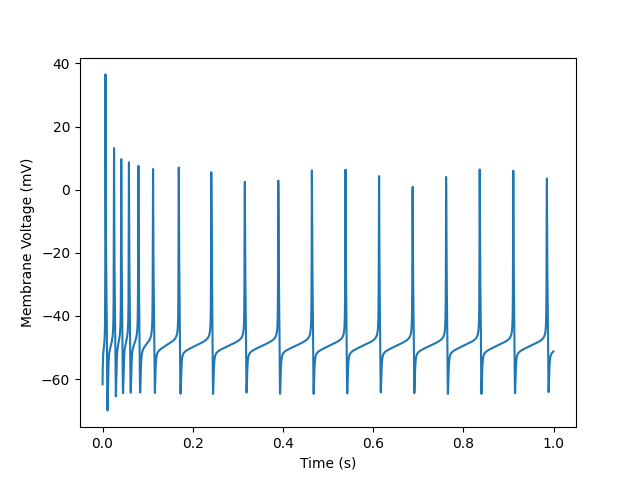
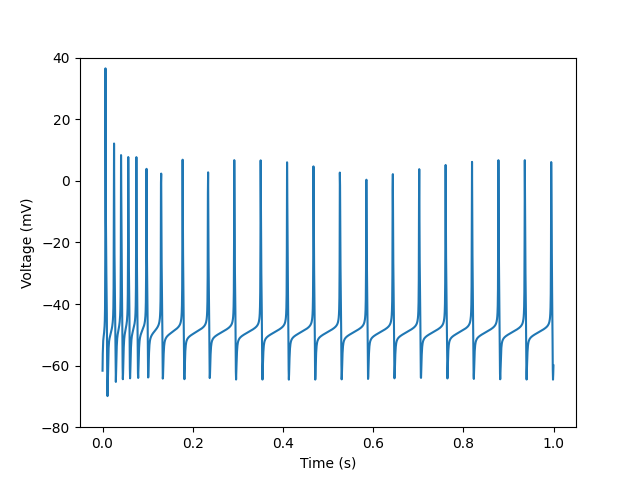
Add files via upload

diff --git a/PN_model.py b/PN_model.py
@@ -1,11 +1,13 @@
-
+#Version 0.1
+#Updated 12/08/2020
+############
 import matplotlib.pyplot as plt
 plt.ion() #interactive plotting
 import numpy as np
 
 from scipy.integrate import odeint
 
-import math 
+import math
 
 
 #Parameters
@@ -24,8 +26,8 @@ gL       = 0.05     # maximal conductance of leak channel (micro-siemen)
 ENa      = 55       # reversal potential of Na+ (milli-volt)
 EK       = -94      # reversal potential of K+ (milli-volt)
 ESynE    = -10       # reversal potential of (excitatory Synapse) (milli-volt)
-ESynI    =-94       # reversal potential of (inhibitory Synapse) (milli-volt)
-EL       = -43      # reversal potential of leak channel (milli-volt - (-41.31 for 1Hz  -52.57 for 2Hz  -52.56 for 3Hz))   */ 
+ESynI    = -94       # reversal potential of (inhibitory Synapse) (milli-volt)
+EL       = -43      # reversal potential of leak channel (milli-volt - (-41.31 for 1Hz  -52.57 for 2Hz  -52.56 for 3Hz))   */
 
 v        = 2.5e-4   # Volume of the shell for Ca channel (nano-liter)
 Btot     = 0.03     # Total concentration of Calcium (free + bound) milli-molar
@@ -57,12 +59,12 @@ K_pde    = 3e-3     # Kinetic parameter for cAMP modulation (milli-molar)
 
 InE  = 0.012      # Excitatory Synapse conductnace
 InI  = 0.000      # Inhibitory Synapse conductance
-Iinj = 0.012      # Injected input current 
+Iinj = 0.012      # Injected input current
 
 HT5  = 0.00       # Seretonin concentration
 
 
-        
+
 # Steady State with IR and EL=-43 and gL=0.05. */
 ###############################################
 
@@ -77,9 +79,9 @@ y0[6]  = 2.170679363371657e-01  # activation variable of transient potassium K_A
 y0[7]  = 6.157878220370643e-02  # inactivation variable of transient potassium K_A2
 y0[8]  = 1.113929524548006e-01  # activation variable of Calcium dependent potassium K_AHP
 y0[9]  = 1.027134762959492e-02  # activation variable of L-type calcium
-y0[10] = 0.0                       # m1-activation variable of N-type calcium 
-y0[11] = 0.0                     # h1-inactivation variable of N1-type calcium 
-y0[12] = 0.0                       # h2-inactivation variable of N2-type calcium 
+y0[10] = 0.0                       # m1-activation variable of N-type calcium
+y0[11] = 0.0                     # h1-inactivation variable of N1-type calcium
+y0[12] = 0.0                       # h2-inactivation variable of N2-type calcium
 y0[13] = 5.007132151536936e-05  # Calcium concentration
 y0[14] = 0.0                     # pre synaptic excitation
 y0[15] = 0.0                      # pre synaptic inhibition
@@ -98,12 +100,12 @@ def ECa(x):
 #%%
 
 
-    
+
 def PN_model(y,t):
-    
+
 #variables
 ##########
-    
+
     V     = y[0] # Membrane volatge from interg over Vm
     mNa   = y[1] # activation variable of Na+
     hNa   = y[2] # inactivation variable of Na+
@@ -114,17 +116,17 @@ def PN_model(y,t):
     hA2   = y[7] # inactivation variable of transient potassium K_A2
     mAHP  = y[8] # activation variable of Calcium dependent potassium K_AHP
     mCaL  = y[9] # activation variable of L-type calcium
-    mCaN  = y[10] # m1-activation variable of N-type calcium 
-    hCaN1 = y[11] # h1-inactivation variable of N1-type calcium 
-    hCaN2 = y[12] # h2-inactivation variable of N2-type calcium  
+    mCaN  = y[10] # m1-activation variable of N-type calcium
+    hCaN1 = y[11] # h1-inactivation variable of N1-type calcium
+    hCaN2 = y[12] # h2-inactivation variable of N2-type calcium
     Cai   = y[13] # Calcium concentration
     gSynE = y[14] # pre synaptic excitation
     gSynI = y[15] # pre synaptic inhibition
     cAMP  = y[16] # cyclic AMP modulation
-            
-       
-            
-       
+
+
+
+
 #Current from channels
 ######################
 
@@ -132,15 +134,15 @@ def PN_model(y,t):
     IDR   = -gDR_bar*mDR**4*(EK-V)      #Potassium delayed rectifier
     IA    = -gA_bar*( 0.6*mA1**4*hA1 + 0.4*mA2**4*hA2 )*(EK-V) #Transient potassium
     IAHP  = -gAHP_bar*mAHP*mAHP*(EK-V) #Calcium dependent potassium
-    FR    = 1   #1+KR/( 1+ math.exp((KRcAMP-cAMP)/DRcAMP) )  #cAMP regulation
+    FR    = 1+KR/( 1+ math.exp((KRcAMP-cAMP)/DRcAMP) )  #cAMP regulation
     IR    = gR_bar*FR*(V-EK+5.66)/( 1+ math.exp((V-EK-15.3)*Z*F/RT) ) # Inwardly rectifying potassium, KAR
     ICa   = gCaL_bar*mCaL**2*(ECa(Cai)-V) #Calcium-L type - TO EDIT
-     
-  
+
+
     ISynE = gSynE*(ESynE-V) # Excitatory Synapse
     ISynI = gSynI*(ESynI-V) # Inhibitory Synapse
     IL    = gL*(EL-V)       # Leak channel current
-        
+
 
 
 #Steady state values
@@ -148,136 +150,136 @@ def PN_model(y,t):
 
     # Fast Sodium, Na_fast */
 
-    miNa = ( (V+38)/(1- math.exp(-(V+38)/5)) ) 
-    tmNa = 1/( 0.091*miNa + 0.062*miNa*math.exp(-(V+38)/5) ) 
-    miNa = 0.091*miNa*tmNa 
-    
-    hiNa = 0.016* math.exp(-(V+55)/15) 
-    thNa = 1/( hiNa+2.07/(1+ math.exp(-(V-17)/21)) ) 
-    hiNa = hiNa*thNa 
-    
-    gNa  = gNa_bar*mNa**3*hNa 
-    
-    mNa_dot = (miNa-mNa)/tmNa 
-    hNa_dot = (hiNa-hNa)/thNa 
+    miNa = ( (V+38)/(1- math.exp(-(V+38)/5)) )
+    tmNa = 1/( 0.091*miNa + 0.062*miNa*math.exp(-(V+38)/5) )
+    miNa = 0.091*miNa*tmNa
+
+    hiNa = 0.016* math.exp(-(V+55)/15)
+    thNa = 1/( hiNa+2.07/(1+ math.exp(-(V-17)/21)) )
+    hiNa = hiNa*thNa
+
+    gNa  = gNa_bar*mNa**3*hNa
+
+    mNa_dot = (miNa-mNa)/tmNa
+    hNa_dot = (hiNa-hNa)/thNa
 
 
     # Potassium-delayed rectifier, K_DR */
 
-    miDR = ( 0.01*(V+45)/(1- math.exp(-(V+45)/5)) ) 
-    tmDR = 1/( miDR+0.17* math.exp(-(V+50)/40) ) 
-    miDR = miDR*tmDR 
-    
-    gDR  = gDR_bar*mDR**4 
-    mDR_dot = (miDR-mDR)/tmDR 
+    miDR = ( 0.01*(V+45)/(1- math.exp(-(V+45)/5)) )
+    tmDR = 1/( miDR+0.17* math.exp(-(V+50)/40) )
+    miDR = miDR*tmDR
+
+    gDR  = gDR_bar*mDR**4
+    mDR_dot = (miDR-mDR)/tmDR
 
 
     #Transient Potassium-A, K_A */
 
-    miA1 = 1/( 1+ math.exp(-(V+60)/8.5) ) 
-    tmA1 = 1/(  math.exp((V+35.82)/19.69) +  math.exp(-(V+79.69)/12.7) + 0.37 ) 
-    hiA1 = 1/( 1+ math.exp((V+78)/6) ) 
-    thA1 = 1/( 1+ math.exp((V+46.05)/5) +  math.exp(-(V+238.4)/37.45) ) 
-    miA2 = 1/( 1+ math.exp(-(V+36)/20) ) 
-    tmA2 = tmA1 
-    hiA2 = hiA1 
-    thA2 = thA1 
+    miA1 = 1/( 1+ math.exp(-(V+60)/8.5) )
+    tmA1 = 1/(  math.exp((V+35.82)/19.69) +  math.exp(-(V+79.69)/12.7) + 0.37 )
+    hiA1 = 1/( 1+ math.exp((V+78)/6) )
+    thA1 = 1/( 1+ math.exp((V+46.05)/5) +  math.exp(-(V+238.4)/37.45) )
+    miA2 = 1/( 1+ math.exp(-(V+36)/20) )
+    tmA2 = tmA1
+    hiA2 = hiA1
+    thA2 = thA1
 
-    if V > -63: 
+    if V > -63:
         thA1 = 19
-    elif V > -73: 
-        thA2 = 60 
+    elif V > -73:
+        thA2 = 60
 
-    
-  
-    gA = gA_bar*( 0.6*mA1**4*hA1 + 0.4*mA2**4*hA2 ) 
-    
-    mA1_dot = (miA1-mA1)/tmA1 
-    hA1_dot = (hiA1-hA1)/thA1 
-    mA2_dot = (miA2-mA2)/tmA2 
-    hA2_dot = (hiA2-hA2)/thA2 
+
+
+    gA = gA_bar*( 0.6*mA1**4*hA1 + 0.4*mA2**4*hA2 )
+
+    mA1_dot = (miA1-mA1)/tmA1
+    hA1_dot = (hiA1-hA1)/thA1
+    mA2_dot = (miA2-mA2)/tmA2
+    hA2_dot = (hiA2-hA2)/thA2
 
 
     # Calcium-dependent potassium, K_AHP */
 
-    miAHP = 1.25e8*Cai*Cai 
-    tmAHP = 1e3/(miAHP+2.5) 
-    miAHP = miAHP*1e-3*tmAHP 
-    
-    gAHP  = gAHP_bar*mAHP*mAHP 
-    mAHP_dot = (miAHP-mAHP)/tmAHP 
+    miAHP = 1.25e8*Cai*Cai
+    tmAHP = 1e3/(miAHP+2.5)
+    miAHP = miAHP*1e-3*tmAHP
+
+    gAHP  = gAHP_bar*mAHP*mAHP
+    mAHP_dot = (miAHP-mAHP)/tmAHP
 
 
 
     # Inwardly rectifying (Anomalous Rectifier), K_AR */
 
-    #FR = 1+KR/( 1+ math.exp((KRcAMP-cAMP)/DRcAMP) ) 
-    FR=1 #Turning off the cAMP-modifier
-    IR = gR_bar*FR*(V-EK+5.66)/( 1+ math.exp((V-EK-15.3)*Z*F/RT) ) 
+    #FR = 1+KR/( 1+ math.exp((KRcAMP-cAMP)/DRcAMP) )
+    FR = 1 #Turning off the cAMP-modifier
+    IR = gR_bar*FR*(V-EK+5.66)/( 1+ math.exp((V-EK-15.3)*Z*F/RT) )
 
 
 
     # High-threshold L-type calcium, CaL */
 
-    miCaL = 1.6/( 1+ math.exp(-0.072*(V-5)) ) 
-    tmCaL = 1/( miCaL + 0.02*(V-1.31)/( math.exp((V-1.31)/5.36)-1) ) 
-    miCaL = miCaL*tmCaL 
-    
-    gCaL  = gCaL_bar*mCaL*mCaL 
-    mCaL_dot = (miCaL-mCaL)/tmCaL 
+    miCaL = 1.6/( 1+ math.exp(-0.072*(V-5)) )
+    tmCaL = 1/( miCaL + 0.02*(V-1.31)/( math.exp((V-1.31)/5.36)-1) )
+    miCaL = miCaL*tmCaL
+
+    gCaL  = gCaL_bar*mCaL*mCaL
+    mCaL_dot = (miCaL-mCaL)/tmCaL
 
 
-   
+
 
     # Low-threshold N-type calcium, CaN */
 
-    miCaN = 1.0/( 1+ math.exp(-(V+20)/4.5) ) 
+    miCaN = 1.0/( 1+ math.exp(-(V+20)/4.5) )
     tmCaN = 0.364* math.exp(-(0.042**2)*(V+31)**2) +0.442
-  
-    hiCaN1 = 1.0/( 1+ math.exp(V+20)/25)  
+
+    hiCaN1 = 1.0/( 1+ math.exp(V+20)/25)
     thCaN1 = 3.752* math.exp(-(0.0395**2)*(V+30)**2) +0.56
-    
-    hiCaN2 = 0.2/( 1+ math.exp(-(V+40)/10)) +  1.0/( 1+ math.exp((V+20)/40))
+
+    hiCaN2 = 0.2/( 1+ math.exp(-(V+40)/10)) +  1.0/( 1+ math.exp(-(V+20)/40))
     thCaN2 = 25.2* math.exp(-(0.0275**2)*(V+40)**2) + 8.4
 
     gCaN  = gCaN_bar*mCaN*(0.55*hCaN1+0.45*hCaN2)  ## TO EDIT
-    
-    mCaN_dot = (miCaN-mCaN)/tmCaN 
-    hCaN1_dot = (hiCaN1-hCaN1)/thCaN1 
-    hCaN2_dot = (hiCaN2-hCaN2)/thCaN2 
-    
- 
-    
-    
+
+    mCaN_dot = (miCaN-mCaN)/tmCaN
+    hCaN1_dot = (hiCaN1-hCaN1)/thCaN1
+    hCaN2_dot = (hiCaN2-hCaN2)/thCaN2
+
+
+
+
  # cAMP balance in the cell */
-    
+
     #cAMP_dot = k_adc*( 1+K_mod*(HT5/(HT5+K_5HT)) ) - v_pde*(cAMP/(cAMP+K_pde))
     cAMP_dot =0
 
-   
+
 
   # Calcium concentration  - with buffer*/
-  
+
     ICaL  = gCaL*(ECa(Cai)-V) #Calcium-L type
     ICaN  = gCaN*(ECa(Cai)-V) #Calcium-L type
     ICa = ICaL + ICaN
-  
+
     Cai_dot = ( ICa*(1-PB(Cai))/(2*F*v) ) + ( (Cai0-Cai)/tau_pump(V) ) # Rate of change of Ca conc
 
 
-   
+
     # Synaptic conductances */
 
-    gSynE_dot = (InE-gSynE)/tauE 
+    gSynE_dot = (InE-gSynE)/tauE
     gSynI_dot = (InI-gSynI)/tauI
 
 
 # Membrane potential */
 
-    V_dot = gNa*(ENa-V) + (gDR+gA+gAHP)*(EK-V) - (IR) + (ICa) + gL*(EL-V) + gSynE*(ESynE-V) + 0*gSynI*(ESynI-V) + Iinj 
+    V_dot = gNa*(ENa-V) + (gDR+gA+gAHP)*(EK-V) - IR + ICa + gL*(EL-V) + gSynE*(ESynE-V) + gSynI*(ESynI-V) + Iinj
 
-    #gDR+gA+gAHP
-    V_dot = V_dot/Cm 
+
+    V_dot = V_dot/Cm
 
 
 
@@ -286,8 +288,8 @@ def PN_model(y,t):
 #######################
 
     dy = np.zeros(17)
-    
-    
+
+
     dy[0] = (1e3*V_dot)
     dy[1] = (1e3*mNa_dot)
     dy[2] = (1e3*hNa_dot)
@@ -298,9 +300,9 @@ def PN_model(y,t):
     dy[7] = (1e3*hA2_dot)
     dy[8] = (1e3*mAHP_dot)
     dy[9] = (1e3*mCaL_dot)
-    dy[10] = (1e3*mCaN_dot)   
-    dy[11] = (1e3*hCaN1_dot) 
-    dy[12] = (1e3*hCaN2_dot) 
+    dy[10] = (1e3*mCaN_dot)
+    dy[11] = (1e3*hCaN1_dot)
+    dy[12] = (1e3*hCaN2_dot)
     dy[13] = (1e3*Cai_dot)
     dy[14] = (1e3*gSynE_dot)
     dy[15] = (1e3*gSynI_dot)
@@ -317,7 +319,7 @@ def PN_model(y,t):
 ti = 0
 # time step (0.0005 s)
 dt = 0.5*10**(-3)
-# final time 
+# final time
 tf = 1 # 800 for step response
 
 tspan = np.arange(ti,tf,dt)
@@ -351,13 +353,6 @@ cAMP  = Vy[:,16]
 fig = plt.figure()
 plt.plot(tspan,V)
 plt.xlabel('Time (s)')
-plt.ylabel('Membrane Voltage (mV)')
-fig.savefig('example_plot_python.png') 
-
-
-
-
-
-
-  
-
+plt.ylabel('Voltage (mV)')
+plt.ylim(-80,40)
+fig.savefig('example_plot_python.png')
